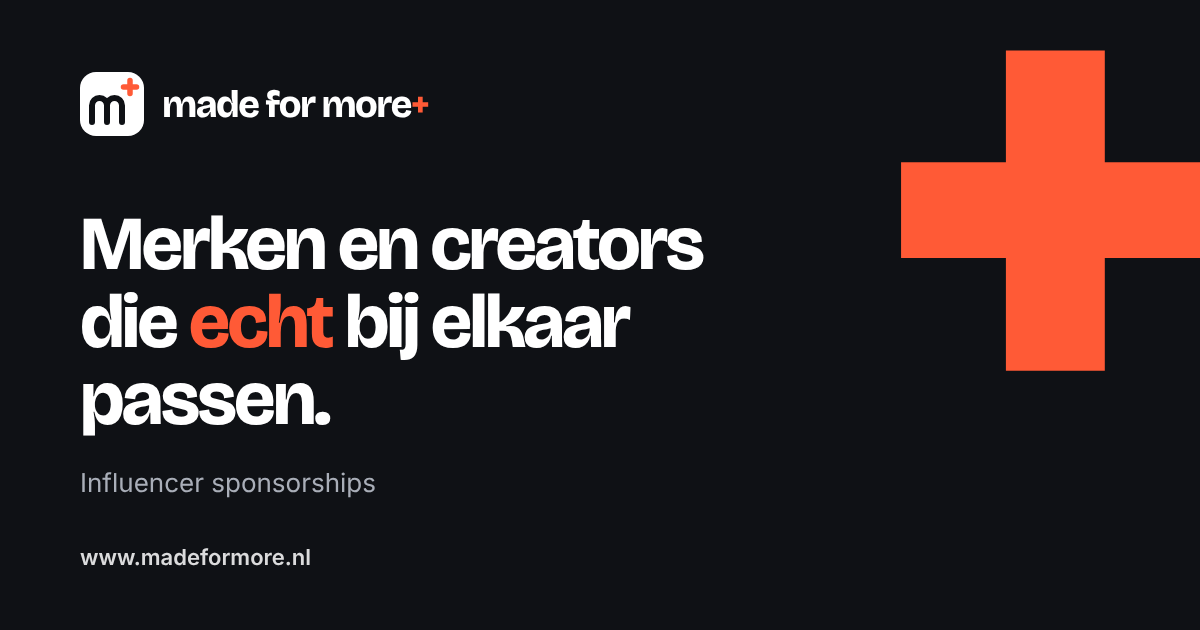
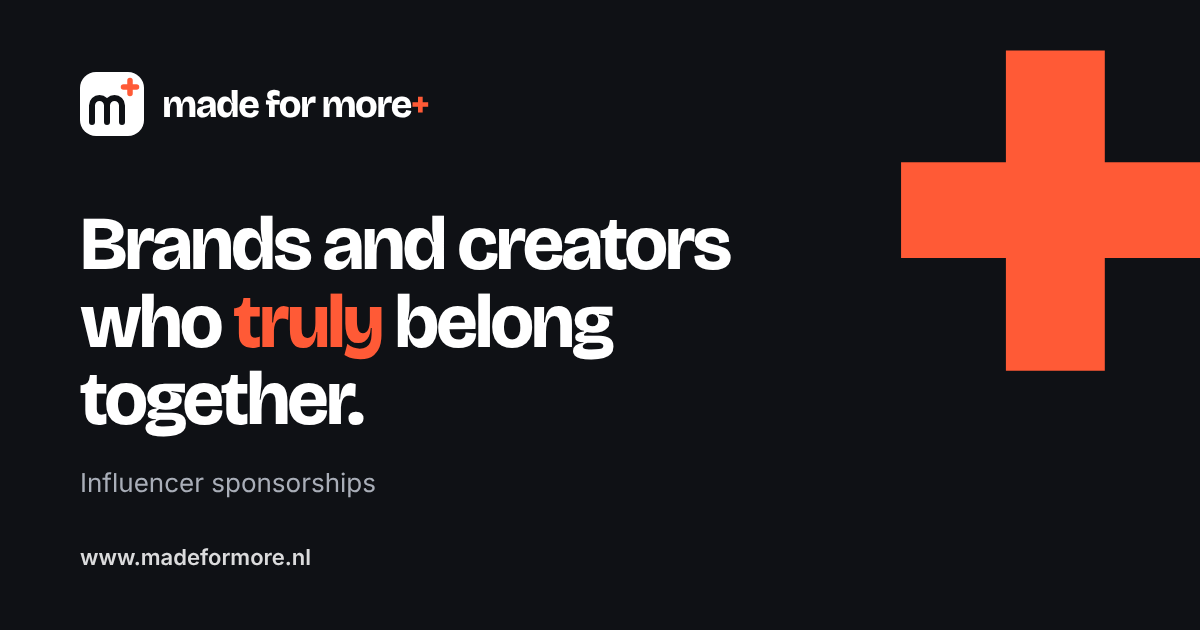
Translate Made for More one-pager to English
Claude-Session: https://claude.ai/code/session_01TpjzxZqXYJdHnQNcjByBe9

Changed region(s): [[0.0617, 0.3317, 0.6167, 0.573], [0.0617, 0.573, 0.3083, 0.6937]]

diff --git a/made-for-more/site/index.html b/made-for-more/site/index.html
@@ -1,18 +1,18 @@
 <!doctype html>
-<html lang="nl">
+<html lang="en">
 <head>
 <meta charset="utf-8">
 <meta name="viewport" content="width=device-width, initial-scale=1">
-<title>Made for More | Influencer sponsorships voor merken en creators</title>
-<meta name="description" content="Made for More koppelt merken aan creators die echt bij ze passen. Wij zoeken de juiste match, regelen de afspraken en begeleiden de samenwerking.">
+<title>Made for More | Influencer sponsorships for brands and creators</title>
+<meta name="description" content="Made for More connects brands with creators who are a genuine fit. We find the right match, handle the agreements and guide the collaboration.">
 <link rel="canonical" href="https://www.madeformore.nl/">
 <meta name="theme-color" content="#0F1115">
 
 <meta property="og:type" content="website">
-<meta property="og:locale" content="nl_NL">
+<meta property="og:locale" content="en_US">
 <meta property="og:site_name" content="Made for More">
 <meta property="og:title" content="Made for More | Influencer sponsorships">
-<meta property="og:description" content="Wij koppelen merken aan creators die echt bij ze passen, en regelen de rest.">
+<meta property="og:description" content="We connect brands with creators who are a genuine fit, and handle the rest.">
 <meta property="og:url" content="https://www.madeformore.nl/">
 <meta property="og:image" content="https://www.madeformore.nl/assets/img/og-image.png">
 <meta property="og:image:width" content="1200">
@@ -36,17 +36,17 @@
    "name": "Made for More",
    "url": "https://www.madeformore.nl/",
    "logo": "https://www.madeformore.nl/assets/img/icon-512.png",
-   "description": "Made for More is een bureau voor influencer sponsorships. Het koppelt merken aan passende creators, regelt de afspraken en begeleidt de samenwerking van eerste contact tot rapportage.",
-   "slogan": "Merken en creators die echt bij elkaar passen.",
-   "areaServed": {"@type": "Country", "name": "Nederland"},
-   "knowsAbout": ["Influencer marketing", "Sponsorships", "Creator partnerships", "Reclamecode Social Media & Influencer Marketing"]
+   "description": "Made for More is an influencer sponsorship agency. It connects brands with the right creators, handles the agreements and guides the collaboration from first contact to reporting.",
+   "slogan": "Brands and creators who truly belong together.",
+   "areaServed": {"@type": "Country", "name": "Netherlands"},
+   "knowsAbout": ["Influencer marketing", "Sponsorships", "Creator partnerships", "Influencer marketing advertising disclosure"]
   },
   {
    "@type": "WebSite",
    "@id": "https://www.madeformore.nl/#website",
    "url": "https://www.madeformore.nl/",
    "name": "Made for More",
-   "inLanguage": "nl-NL",
+   "inLanguage": "en",
    "publisher": {"@id": "https://www.madeformore.nl/#organisatie"}
   }
  ]
@@ -54,7 +54,7 @@
 </script>
 
 <style>
-/* Layout: één pagina, donkere opening met een "match"-beeld, daarna rustige lichte secties en een groot contactblok. */
+/* Layout: one page, dark opening with a "match" visual, then calm light sections and a large contact block. */
 @font-face {
   font-family: "Bricolage Grotesque";
   font-style: normal;
@@ -340,7 +340,7 @@ a.channel:hover { border-color: var(--accent); transform: translateY(-2px); }
 
 <header class="top">
   <div class="wrap">
-    <a class="brand" href="#top" aria-label="Made for More, naar boven">
+    <a class="brand" href="#top" aria-label="Made for More, back to top">
       <svg viewBox="0 0 64 64" aria-hidden="true"><rect width="64" height="64" rx="16" fill="#FFFFFF"/><path d="M12 50V33.5a7.5 7.5 0 0 1 15 0V50M27 33.5a7.5 7.5 0 0 1 15 0V50" fill="none" stroke="#0F1115" stroke-width="6" stroke-linecap="round" stroke-linejoin="round"/><path d="M50 8.5v13M43.5 15h13" stroke="#FF5A36" stroke-width="5.5" stroke-linecap="round"/></svg>
       <span>made for more<b>+</b></span>
     </a>
@@ -353,24 +353,24 @@ a.channel:hover { border-color: var(--accent); transform: translateY(-2px); }
     <div class="wrap hero__grid">
       <div>
         <p class="eyebrow">Influencer sponsorships</p>
-        <h1 id="titel">Merken en creators die <em>echt</em> bij elkaar passen.</h1>
-        <p class="hero__lead">Made for More is een bureau voor influencer sponsorships. Wij koppelen merken aan de juiste creators, regelen de afspraken en begeleiden de samenwerking van eerste contact tot resultaat.</p>
+        <h1 id="titel">Brands and creators who <em>truly</em> belong together.</h1>
+        <p class="hero__lead">Made for More is an influencer sponsorship agency. We connect brands with the right creators, handle the agreements and guide the collaboration from first contact to results.</p>
         <div class="hero__cta">
-          <a class="btn btn--accent" href="#contact">Neem contact op
+          <a class="btn btn--accent" href="#contact">Get in touch
             <svg viewBox="0 0 24 24" fill="none" stroke="currentColor" stroke-width="2" stroke-linecap="round" stroke-linejoin="round" aria-hidden="true"><path d="M5 12h14"/><path d="m12 5 7 7-7 7"/></svg></a>
-          <a class="btn btn--line" href="#werkwijze">Zo werkt het</a>
+          <a class="btn btn--line" href="#werkwijze">How it works</a>
         </div>
       </div>
 
-      <div class="match" aria-label="Een merk en een creator worden gematcht op doelgroep, waarden en stijl">
+      <div class="match" aria-label="A brand and a creator matched on audience, values and style">
         <span class="match__line" aria-hidden="true"></span>
         <div class="match__card">
           <div class="match__icon" aria-hidden="true"><svg viewBox="0 0 24 24" fill="none" stroke="currentColor" stroke-width="2" stroke-linecap="round" stroke-linejoin="round"><path d="M6 2 3 6v14a2 2 0 0 0 2 2h14a2 2 0 0 0 2-2V6l-3-4Z"/><path d="M3 6h18"/><path d="M16 10a4 4 0 0 1-8 0"/></svg></div>
-          <h2>Merk</h2>
+          <h2>Brand</h2>
           <ul class="match__list">
-            <li><svg viewBox="0 0 24 24" fill="none" stroke="currentColor" stroke-width="2.5" stroke-linecap="round" stroke-linejoin="round" aria-hidden="true"><path d="M20 6 9 17l-5-5"/></svg>Doelgroep</li>
-            <li><svg viewBox="0 0 24 24" fill="none" stroke="currentColor" stroke-width="2.5" stroke-linecap="round" stroke-linejoin="round" aria-hidden="true"><path d="M20 6 9 17l-5-5"/></svg>Waarden</li>
-            <li><svg viewBox="0 0 24 24" fill="none" stroke="currentColor" stroke-width="2.5" stroke-linecap="round" stroke-linejoin="round" aria-hidden="true"><path d="M20 6 9 17l-5-5"/></svg>Budget &amp; doel</li>
+            <li><svg viewBox="0 0 24 24" fill="none" stroke="currentColor" stroke-width="2.5" stroke-linecap="round" stroke-linejoin="round" aria-hidden="true"><path d="M20 6 9 17l-5-5"/></svg>Audience</li>
+            <li><svg viewBox="0 0 24 24" fill="none" stroke="currentColor" stroke-width="2.5" stroke-linecap="round" stroke-linejoin="round" aria-hidden="true"><path d="M20 6 9 17l-5-5"/></svg>Values</li>
+            <li><svg viewBox="0 0 24 24" fill="none" stroke="currentColor" stroke-width="2.5" stroke-linecap="round" stroke-linejoin="round" aria-hidden="true"><path d="M20 6 9 17l-5-5"/></svg>Budget &amp; goals</li>
           </ul>
         </div>
         <div class="match__plus" aria-hidden="true">+</div>
@@ -378,12 +378,12 @@ a.channel:hover { border-color: var(--accent); transform: translateY(-2px); }
           <div class="match__icon" aria-hidden="true"><svg viewBox="0 0 24 24" fill="none" stroke="currentColor" stroke-width="2" stroke-linecap="round" stroke-linejoin="round"><path d="M14.5 4h-5L7 7H4a2 2 0 0 0-2 2v9a2 2 0 0 0 2 2h16a2 2 0 0 0 2-2V9a2 2 0 0 0-2-2h-3l-2.5-3z"/><circle cx="12" cy="13" r="3"/></svg></div>
           <h2>Creator</h2>
           <ul class="match__list">
-            <li><svg viewBox="0 0 24 24" fill="none" stroke="currentColor" stroke-width="2.5" stroke-linecap="round" stroke-linejoin="round" aria-hidden="true"><path d="M20 6 9 17l-5-5"/></svg>Volgers</li>
-            <li><svg viewBox="0 0 24 24" fill="none" stroke="currentColor" stroke-width="2.5" stroke-linecap="round" stroke-linejoin="round" aria-hidden="true"><path d="M20 6 9 17l-5-5"/></svg>Stijl &amp; content</li>
-            <li><svg viewBox="0 0 24 24" fill="none" stroke="currentColor" stroke-width="2.5" stroke-linecap="round" stroke-linejoin="round" aria-hidden="true"><path d="M20 6 9 17l-5-5"/></svg>Betrokkenheid</li>
+            <li><svg viewBox="0 0 24 24" fill="none" stroke="currentColor" stroke-width="2.5" stroke-linecap="round" stroke-linejoin="round" aria-hidden="true"><path d="M20 6 9 17l-5-5"/></svg>Followers</li>
+            <li><svg viewBox="0 0 24 24" fill="none" stroke="currentColor" stroke-width="2.5" stroke-linecap="round" stroke-linejoin="round" aria-hidden="true"><path d="M20 6 9 17l-5-5"/></svg>Style &amp; content</li>
+            <li><svg viewBox="0 0 24 24" fill="none" stroke="currentColor" stroke-width="2.5" stroke-linecap="round" stroke-linejoin="round" aria-hidden="true"><path d="M20 6 9 17l-5-5"/></svg>Engagement</li>
           </ul>
         </div>
-        <p class="match__caption">Een goede match draait om meer dan het aantal volgers.</p>
+        <p class="match__caption">A good match is about more than follower count.</p>
       </div>
     </div>
   </section>
@@ -391,30 +391,30 @@ a.channel:hover { border-color: var(--accent); transform: translateY(-2px); }
   <section class="section" aria-labelledby="voor-wie">
     <div class="wrap">
       <div class="head">
-        <p class="eyebrow">Voor wie</p>
-        <h2 id="voor-wie">Wij werken voor twee kanten van dezelfde samenwerking.</h2>
+        <p class="eyebrow">Who we work with</p>
+        <h2 id="voor-wie">We work for both sides of the same partnership.</h2>
       </div>
       <div class="sides">
         <article class="side">
-          <p class="side__label">Voor merken</p>
-          <h3>De juiste stem voor jouw merk.</h3>
-          <p>Je wilt zichtbaar zijn bij de juiste doelgroep, via creators die je publiek echt vertrouwt. Wij nemen het werk uit handen.</p>
+          <p class="side__label">For brands</p>
+          <h3>The right voice for your brand.</h3>
+          <p>You want to reach the right audience through creators your audience genuinely trusts. We take the work off your hands.</p>
           <ul class="checks">
-            <li><svg viewBox="0 0 24 24" fill="none" stroke="currentColor" stroke-width="2" stroke-linecap="round" stroke-linejoin="round" aria-hidden="true"><path d="M20 6 9 17l-5-5"/></svg><span>Creators zoeken die passen bij je doelgroep en je merk</span></li>
-            <li><svg viewBox="0 0 24 24" fill="none" stroke="currentColor" stroke-width="2" stroke-linecap="round" stroke-linejoin="round" aria-hidden="true"><path d="M20 6 9 17l-5-5"/></svg><span>Voorstel, onderhandeling en heldere afspraken</span></li>
-            <li><svg viewBox="0 0 24 24" fill="none" stroke="currentColor" stroke-width="2" stroke-linecap="round" stroke-linejoin="round" aria-hidden="true"><path d="M20 6 9 17l-5-5"/></svg><span>Begeleiding van de campagne en contact met de creator</span></li>
-            <li><svg viewBox="0 0 24 24" fill="none" stroke="currentColor" stroke-width="2" stroke-linecap="round" stroke-linejoin="round" aria-hidden="true"><path d="M20 6 9 17l-5-5"/></svg><span>Overzicht van de resultaten na afloop</span></li>
+            <li><svg viewBox="0 0 24 24" fill="none" stroke="currentColor" stroke-width="2" stroke-linecap="round" stroke-linejoin="round" aria-hidden="true"><path d="M20 6 9 17l-5-5"/></svg><span>Finding creators who fit your audience and your brand</span></li>
+            <li><svg viewBox="0 0 24 24" fill="none" stroke="currentColor" stroke-width="2" stroke-linecap="round" stroke-linejoin="round" aria-hidden="true"><path d="M20 6 9 17l-5-5"/></svg><span>Proposals, negotiation and clear agreements</span></li>
+            <li><svg viewBox="0 0 24 24" fill="none" stroke="currentColor" stroke-width="2" stroke-linecap="round" stroke-linejoin="round" aria-hidden="true"><path d="M20 6 9 17l-5-5"/></svg><span>Campaign management and creator communication</span></li>
+            <li><svg viewBox="0 0 24 24" fill="none" stroke="currentColor" stroke-width="2" stroke-linecap="round" stroke-linejoin="round" aria-hidden="true"><path d="M20 6 9 17l-5-5"/></svg><span>A clear overview of the results afterwards</span></li>
           </ul>
         </article>
         <article class="side side--ink">
-          <p class="side__label">Voor creators</p>
-          <h3>Samenwerkingen die bij jou passen.</h3>
-          <p>Je wilt werken met merken waar je achter staat, met eerlijke afspraken. Wij zoeken ze voor je en regelen de zakelijke kant.</p>
+          <p class="side__label">For creators</p>
+          <h3>Partnerships that suit you.</h3>
+          <p>You want to work with brands you believe in, on fair terms. We find them for you and handle the business side.</p>
           <ul class="checks">
-            <li><svg viewBox="0 0 24 24" fill="none" stroke="currentColor" stroke-width="2" stroke-linecap="round" stroke-linejoin="round" aria-hidden="true"><path d="M20 6 9 17l-5-5"/></svg><span>Merken benaderen die bij je content en publiek passen</span></li>
-            <li><svg viewBox="0 0 24 24" fill="none" stroke="currentColor" stroke-width="2" stroke-linecap="round" stroke-linejoin="round" aria-hidden="true"><path d="M20 6 9 17l-5-5"/></svg><span>Onderhandelen over vergoeding en voorwaarden</span></li>
-            <li><svg viewBox="0 0 24 24" fill="none" stroke="currentColor" stroke-width="2" stroke-linecap="round" stroke-linejoin="round" aria-hidden="true"><path d="M20 6 9 17l-5-5"/></svg><span>Duidelijke afspraken over planning, content en gebruik</span></li>
-            <li><svg viewBox="0 0 24 24" fill="none" stroke="currentColor" stroke-width="2" stroke-linecap="round" stroke-linejoin="round" aria-hidden="true"><path d="M20 6 9 17l-5-5"/></svg><span>Jij houdt je tijd vrij voor het maken van content</span></li>
+            <li><svg viewBox="0 0 24 24" fill="none" stroke="currentColor" stroke-width="2" stroke-linecap="round" stroke-linejoin="round" aria-hidden="true"><path d="M20 6 9 17l-5-5"/></svg><span>Approaching brands that fit your content and audience</span></li>
+            <li><svg viewBox="0 0 24 24" fill="none" stroke="currentColor" stroke-width="2" stroke-linecap="round" stroke-linejoin="round" aria-hidden="true"><path d="M20 6 9 17l-5-5"/></svg><span>Negotiating fees and terms</span></li>
+            <li><svg viewBox="0 0 24 24" fill="none" stroke="currentColor" stroke-width="2" stroke-linecap="round" stroke-linejoin="round" aria-hidden="true"><path d="M20 6 9 17l-5-5"/></svg><span>Clear agreements on timing, content and usage rights</span></li>
+            <li><svg viewBox="0 0 24 24" fill="none" stroke="currentColor" stroke-width="2" stroke-linecap="round" stroke-linejoin="round" aria-hidden="true"><path d="M20 6 9 17l-5-5"/></svg><span>More of your time left for creating</span></li>
           </ul>
         </article>
       </div>
@@ -424,14 +424,14 @@ a.channel:hover { border-color: var(--accent); transform: translateY(-2px); }
   <section class="section section--white" id="werkwijze" aria-labelledby="werkwijze-titel">
     <div class="wrap">
       <div class="head">
-        <p class="eyebrow">Werkwijze</p>
-        <h2 id="werkwijze-titel">Van eerste gesprek tot geslaagde samenwerking.</h2>
+        <p class="eyebrow">How it works</p>
+        <h2 id="werkwijze-titel">From first conversation to successful partnership.</h2>
       </div>
       <ol class="steps">
-        <li><h3>Kennismaken</h3><p>We bespreken wat je wilt bereiken, bij wie en met welk budget.</p></li>
-        <li><h3>De match</h3><p>We selecteren creators of merken die passen op doelgroep, waarden en stijl.</p></li>
-        <li><h3>Afspraken</h3><p>We onderhandelen en leggen alles vast: content, planning, vergoeding en gebruiksrechten.</p></li>
-        <li><h3>Campagne &amp; resultaat</h3><p>We begeleiden de uitvoering en zetten de resultaten na afloop op een rij.</p></li>
+        <li><h3>Introduction</h3><p>We discuss what you want to achieve, with whom and on what budget.</p></li>
+        <li><h3>The match</h3><p>We select creators or brands that fit on audience, values and style.</p></li>
+        <li><h3>Agreements</h3><p>We negotiate and put everything in writing: content, timing, fees and usage rights.</p></li>
+        <li><h3>Campaign &amp; results</h3><p>We guide the execution and summarise the results once it wraps up.</p></li>
       </ol>
     </div>
   </section>
@@ -439,25 +439,25 @@ a.channel:hover { border-color: var(--accent); transform: translateY(-2px); }
   <section class="section" aria-labelledby="waarom">
     <div class="wrap">
       <div class="head">
-        <p class="eyebrow">Waarom Made for More</p>
-        <h2 id="waarom">Persoonlijk, eerlijk en zonder gedoe.</h2>
+        <p class="eyebrow">Why Made for More</p>
+        <h2 id="waarom">Personal, honest and hassle-free.</h2>
       </div>
       <div class="why">
         <div class="why__item">
           <div class="why__icon" aria-hidden="true"><svg viewBox="0 0 24 24" fill="none" stroke="currentColor" stroke-width="2" stroke-linecap="round" stroke-linejoin="round"><path d="M16 21v-2a4 4 0 0 0-4-4H6a4 4 0 0 0-4 4v2"/><circle cx="9" cy="7" r="4"/><path d="M22 21v-2a4 4 0 0 0-3-3.87"/><path d="M16 3.13a4 4 0 0 1 0 7.75"/></svg></div>
-          <div><h3>Eén vast aanspreekpunt</h3><p>Je hebt direct contact met degene die jouw samenwerking regelt.</p></div>
+          <div><h3>One point of contact</h3><p>You deal directly with the person handling your partnership.</p></div>
         </div>
         <div class="why__item">
           <div class="why__icon" aria-hidden="true"><svg viewBox="0 0 24 24" fill="none" stroke="currentColor" stroke-width="2" stroke-linecap="round" stroke-linejoin="round"><circle cx="12" cy="12" r="10"/><circle cx="12" cy="12" r="6"/><circle cx="12" cy="12" r="2"/></svg></div>
-          <div><h3>Match op inhoud</h3><p>We kijken naar doelgroep, waarden en betrokkenheid, niet alleen naar het aantal volgers.</p></div>
+          <div><h3>Matched on substance</h3><p>We look at audience, values and engagement, not just follower count.</p></div>
         </div>
         <div class="why__item">
           <div class="why__icon" aria-hidden="true"><svg viewBox="0 0 24 24" fill="none" stroke="currentColor" stroke-width="2" stroke-linecap="round" stroke-linejoin="round"><path d="M15 2H6a2 2 0 0 0-2 2v16a2 2 0 0 0 2 2h12a2 2 0 0 0 2-2V7Z"/><path d="M14 2v4a2 2 0 0 0 2 2h4"/><path d="M10 13h4"/><path d="M10 17h4"/></svg></div>
-          <div><h3>Heldere afspraken</h3><p>Alles staat vooraf op papier, zodat beide kanten weten waar ze aan toe zijn.</p></div>
+          <div><h3>Clear agreements</h3><p>Everything is agreed in writing up front, so both sides know where they stand.</p></div>
         </div>
         <div class="why__item">
           <div class="why__icon" aria-hidden="true"><svg viewBox="0 0 24 24" fill="none" stroke="currentColor" stroke-width="2" stroke-linecap="round" stroke-linejoin="round"><path d="M20 13c0 5-3.5 7.5-7.66 8.95a1 1 0 0 1-.67-.01C7.5 20.5 4 18 4 13V6a1 1 0 0 1 1-1c2 0 4.5-1.2 6.24-2.72a1.17 1.17 0 0 1 1.52 0C14.51 3.81 17 5 19 5a1 1 0 0 1 1 1z"/><path d="m9 12 2 2 4-4"/></svg></div>
-          <div><h3>Reclame die klopt</h3><p>Samenwerkingen zijn herkenbaar als reclame, zoals de Reclamecode Social Media &amp; Influencer Marketing vraagt.</p></div>
+          <div><h3>Transparent advertising</h3><p>Sponsored content is clearly labelled as advertising, in line with the Dutch Advertising Code for Social Media &amp; Influencer Marketing.</p></div>
         </div>
       </div>
     </div>
@@ -467,29 +467,29 @@ a.channel:hover { border-color: var(--accent); transform: translateY(-2px); }
     <div class="wrap contact__grid">
       <div>
         <p class="eyebrow">Contact</p>
-        <h2 id="contact-titel">Laten we iets <span>moois</span> maken.</h2>
-        <p class="contact__intro">Ben je een merk dat creators zoekt, of een creator die op zoek is naar sponsors? Neem contact op voor een vrijblijvend gesprek.</p>
+        <h2 id="contact-titel">Let's make something <span>great</span>.</h2>
+        <p class="contact__intro">Are you a brand looking for creators, or a creator looking for sponsors? Get in touch for a no-obligation conversation.</p>
         <div class="person">
           <div class="person__avatar" aria-hidden="true">N</div>
-          <div><strong>[Jouw naam]</strong><span>Oprichter, Made for More</span></div>
+          <div><strong>[Your name]</strong><span>Founder, Made for More</span></div>
         </div>
       </div>
       <ul class="channels">
-        <li><a class="channel" href="mailto:[jouw@email.nl]">
+        <li><a class="channel" href="mailto:[you@email.com]">
           <span class="channel__icon" aria-hidden="true"><svg viewBox="0 0 24 24" fill="none" stroke="currentColor" stroke-width="2" stroke-linecap="round" stroke-linejoin="round"><rect width="20" height="16" x="2" y="4" rx="2"/><path d="m22 7-8.97 5.7a1.94 1.94 0 0 1-2.06 0L2 7"/></svg></span>
-          <span><small>E-mail</small><strong>[jouw@email.nl]</strong></span>
+          <span><small>Email</small><strong>[you@email.com]</strong></span>
           <svg class="channel__arrow" viewBox="0 0 24 24" fill="none" stroke="currentColor" stroke-width="2" stroke-linecap="round" stroke-linejoin="round" aria-hidden="true"><path d="M7 17 17 7"/><path d="M7 7h10v10"/></svg></a></li>
-        <li><a class="channel" href="tel:[telefoonnummer]">
+        <li><a class="channel" href="tel:[phone number]">
           <span class="channel__icon" aria-hidden="true"><svg viewBox="0 0 24 24" fill="none" stroke="currentColor" stroke-width="2" stroke-linecap="round" stroke-linejoin="round"><path d="M22 16.92v3a2 2 0 0 1-2.18 2 19.79 19.79 0 0 1-8.63-3.07 19.5 19.5 0 0 1-6-6 19.79 19.79 0 0 1-3.07-8.67A2 2 0 0 1 4.11 2h3a2 2 0 0 1 2 1.72 12.84 12.84 0 0 0 .7 2.81 2 2 0 0 1-.45 2.11L8.09 9.91a16 16 0 0 0 6 6l1.27-1.27a2 2 0 0 1 2.11-.45 12.84 12.84 0 0 0 2.81.7A2 2 0 0 1 22 16.92z"/></svg></span>
-          <span><small>Telefoon</small><strong>[telefoonnummer]</strong></span>
+          <span><small>Phone</small><strong>[phone number]</strong></span>
           <svg class="channel__arrow" viewBox="0 0 24 24" fill="none" stroke="currentColor" stroke-width="2" stroke-linecap="round" stroke-linejoin="round" aria-hidden="true"><path d="M7 17 17 7"/><path d="M7 7h10v10"/></svg></a></li>
-        <li><a class="channel" href="https://wa.me/[nummer]" target="_blank" rel="noopener">
+        <li><a class="channel" href="https://wa.me/[number]" target="_blank" rel="noopener">
           <span class="channel__icon" aria-hidden="true"><svg viewBox="0 0 24 24" fill="none" stroke="currentColor" stroke-width="2" stroke-linecap="round" stroke-linejoin="round"><path d="M7.9 20A9 9 0 1 0 4 16.1L2 22Z"/></svg></span>
-          <span><small>WhatsApp</small><strong>[telefoonnummer]</strong></span>
+          <span><small>WhatsApp</small><strong>[phone number]</strong></span>
           <svg class="channel__arrow" viewBox="0 0 24 24" fill="none" stroke="currentColor" stroke-width="2" stroke-linecap="round" stroke-linejoin="round" aria-hidden="true"><path d="M7 17 17 7"/><path d="M7 7h10v10"/></svg></a></li>
-        <li><a class="channel" href="https://www.instagram.com/[gebruikersnaam]" target="_blank" rel="noopener">
+        <li><a class="channel" href="https://www.instagram.com/[username]" target="_blank" rel="noopener">
           <span class="channel__icon" aria-hidden="true"><svg viewBox="0 0 24 24" fill="none" stroke="currentColor" stroke-width="2" stroke-linecap="round" stroke-linejoin="round"><rect width="20" height="20" x="2" y="2" rx="5"/><path d="M16 11.37A4 4 0 1 1 12.63 8 4 4 0 0 1 16 11.37z"/><path d="M17.5 6.5h.01"/></svg></span>
-          <span><small>Instagram</small><strong>@[gebruikersnaam]</strong></span>
+          <span><small>Instagram</small><strong>@[username]</strong></span>
           <svg class="channel__arrow" viewBox="0 0 24 24" fill="none" stroke="currentColor" stroke-width="2" stroke-linecap="round" stroke-linejoin="round" aria-hidden="true"><path d="M7 17 17 7"/><path d="M7 7h10v10"/></svg></a></li>
       </ul>
     </div>
@@ -499,7 +499,7 @@ a.channel:hover { border-color: var(--accent); transform: translateY(-2px); }
 <footer class="foot">
   <div class="wrap">
     <p>© 2026 Made for More · Influencer sponsorships</p>
-    <p>KvK [nummer] · [plaats]</p>
+    <p>Chamber of Commerce (KvK) [number] · [city], Netherlands</p>
   </div>
 </footer>
 

diff --git a/made-for-more/README.md b/made-for-more/README.md
@@ -1,6 +1,6 @@
 # Made for More: website
 
-One-page website van **Made for More**, bureau voor influencer sponsorships.
+One-page website (Engelstalig) van **Made for More**, bureau voor influencer sponsorships.
 
 > Zelfstandig project, volledig los van de Project Masters lichtplan-site.
 > De eerdere webdesign-versie van deze site staat in de git-geschiedenis (commit `a4de1f5`).
@@ -23,7 +23,7 @@ made-for-more/
 
 ## Contactgegevens invullen
 
-In `site/index.html` staan invulplekken tussen blokhaken: `[Jouw naam]`, `[jouw@email.nl]`, `[telefoonnummer]`, `[nummer]` (WhatsApp, internationaal zonder + of 0, bijv. `31612345678`), `[gebruikersnaam]` (Instagram), `KvK [nummer]` en `[plaats]`. Zoek op `[` om ze allemaal te vinden. Vergeet ook de letter in het rondje bij je naam niet (`person__avatar`).
+De site is in het **Engels**. In `site/index.html` staan invulplekken tussen blokhaken: `[Your name]`, `[you@email.com]`, `[phone number]`, `[number]` (WhatsApp, internationaal zonder + of 0, bijv. `31612345678`), `[username]` (Instagram), `KvK [number]` en `[city]`. Zoek op `[` om ze allemaal te vinden. Vergeet ook de letter in het rondje bij je naam niet (`person__avatar`).
 
 ## Lokaal bekijken
 
